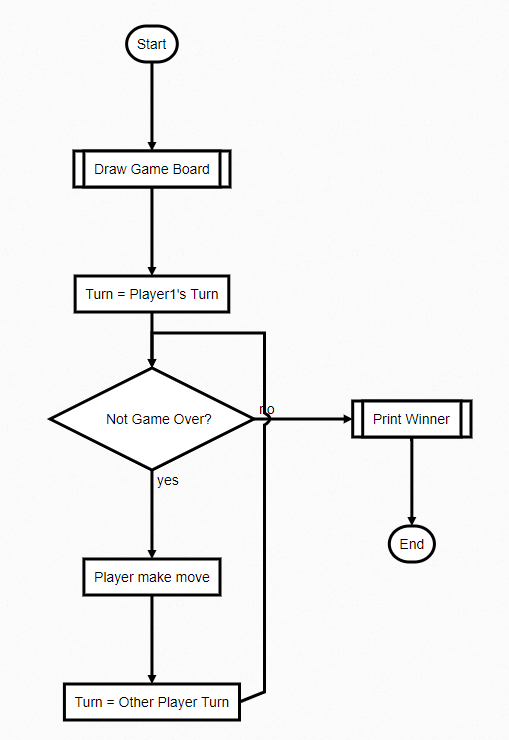
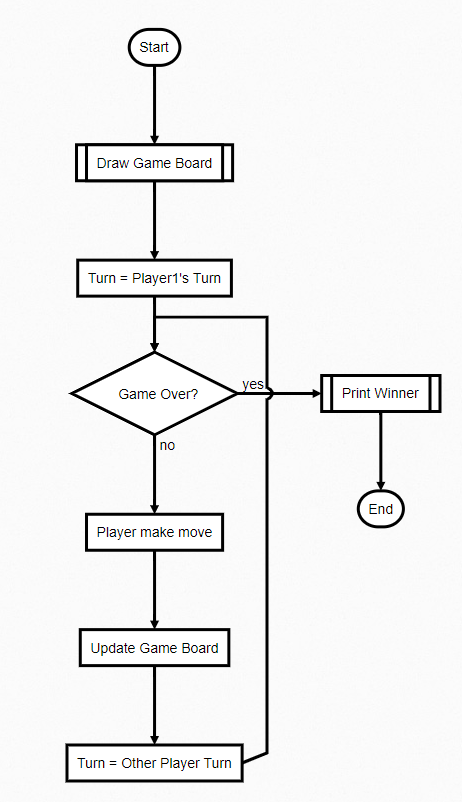
Update lesson 3 notes

Changed region(s): [[0.0909, 0.0311, 0.9697, 0.9946]]

diff --git a/lesson3/images/README.md b/lesson3/images/README.md
@@ -1,0 +1,17 @@
+Flowchart generated by http://flowchart.js.org/
+
+st=>start: Start
+e=>end: End
+op1=>subroutine: Draw Game Board
+op2=>operation: Turn = Player1's Turn
+update=>operation: Update Game Board
+cond=>condition: Game Over?
+result=>subroutine: Print Winner
+
+sub1=>subroutine: My Subroutine
+input=>operation: Player make move
+switch=>operation: Turn = Other Player Turn
+
+st->op1->op2->cond
+cond(yes, right)->result->e
+cond(no, bottom)->input->update->switch->cond
